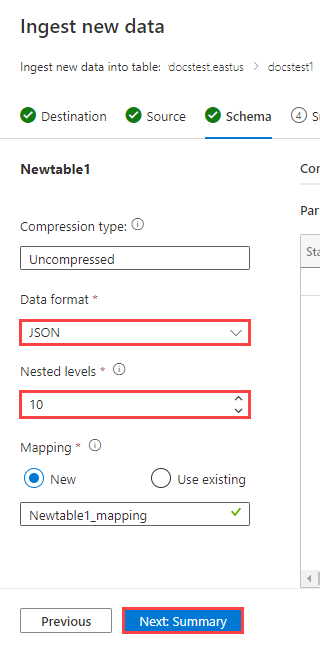
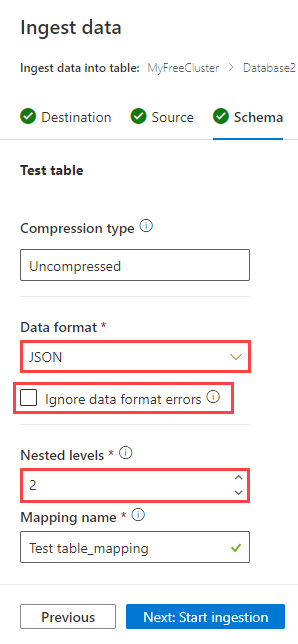
edit

diff --git a/data-explorer/ingestion-wizard-existing-table.md b/data-explorer/ingestion-wizard-existing-table.md
@@ -53,6 +53,8 @@ The **Schema** tab opens.
 
 * **Compression type** will be selected automatically by the source file name. In this case, the compression type is **JSON**
 
+* If you select **Ignore data format errors**, the data will be ingested in JSON format. If you leave this check box unselected, the data will be ingested in Multijson format.
+
 * When you select  **JSON**, you must also select **Nested levels**, from 1 to 100. The levels determine the table column data division.
 
     :::image type="content" source="media/ingestion-wizard-existing-table/json-levels.png" alt-text="Screenshot completing ingestion information for ingesting a JSON file.":::
